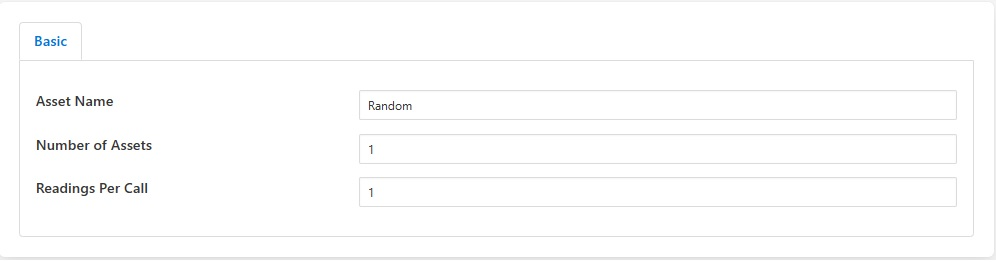
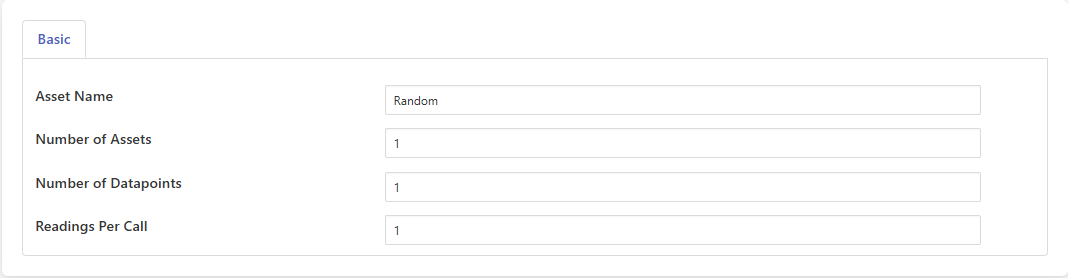
FOGL-9286: Added support for multiple datapoints in a reading (#36)
* FOGL-9286: Added support for multiple datapoints in a reading

diff --git a/plugin.cpp b/plugin.cpp
@@ -28,15 +28,6 @@ static const char *default_config = QUOTE({
 			"type" : "string",
 		       	"default" : PLUGIN_NAME,
 			"readonly" : "true" },
-		"numAssets" : {
-			"description" : "Number of unique assets to simulate",
-			"type" : "integer",
-		       	"default" : "1",
-			"minimum" : "1",
-			"order": "2",
-			"displayName": "Number of Assets",
-			"rule" : "value > 0"
-			},
 		"asset" : {
 			"description" : "Asset name prefix",
 			"type" : "string",
@@ -44,13 +35,31 @@ static const char *default_config = QUOTE({
 			"order": "1",
 			"displayName": "Asset Name"
 			},
+		"numAssets" : {
+			"description" : "Number of unique assets to simulate",
+			"type" : "integer",
+			"default" : "1",
+			"minimum" : "1",
+			"order": "2",
+			"displayName": "Number of Assets",
+			"rule" : "value > 0"
+			},
+		"numDatapoints" : {
+			"description" : "Number of unique datapoints in each asset to simulate",
+			"type" : "integer",
+			"default" : "1",
+			"minimum" : "1",
+			"order": "3",
+			"displayName": "Number of Datapoints",
+			"rule" : "value > 0"
+			},
 		"numReadingsPerPoll" : {
 			"description" : "Number of readings to be returned per poll call",
 			"type" : "integer",
 			"default" : "1",
 			"minimum" : "1",
 			"maximum" : "100000",
-			"order": "3",
+			"order": "4",
 			"displayName": "Readings Per Call"
 			}
 		});
@@ -97,10 +106,21 @@ void setPluginConfig(Random *random, ConfigCategory *config)
 		nAssets = stoul(config->getValue("numAssets"), nullptr, 0);
 		if (nAssets <= 0)
 		{
-			throw runtime_error("The value of numAssets, number of unique assets to simulate, must be greater than 0");
+			throw runtime_error("The number of unique assets to simulate must be greater than 0");
 		}
 	}
 	random->setNumAssets(nAssets);
+
+	unsigned int nDatapoints = 1;
+	if (config->itemExists("numDatapoints"))
+	{
+		nDatapoints = stoul(config->getValue("numDatapoints"), nullptr, 0);
+		if (nDatapoints <= 0)
+		{
+			throw runtime_error("The number of unique data points to simulate must be greater than 0");
+		}
+	}
+	random->setNumDatapoints(nDatapoints);
 
 	unsigned int numReadingsPerPoll = 1;
 	if (config->itemExists("numReadingsPerPoll"))

diff --git a/random.cpp b/random.cpp
@@ -37,7 +37,19 @@ std::vector<Reading*>* Random::takeReadings()
 	{
 		m_lastValue += ((rand() % 100) > 50 ? 1 : -1) * ((rand() % 100) / 20);
 		DatapointValue value(m_lastValue);
-		Reading *in = new Reading(m_assetName+std::to_string(m_assetCount++ % m_numAssets + 1), new Datapoint("random", value));
+
+		std::vector<Datapoint *> values;
+		values.emplace_back(new Datapoint("random", value));
+		// create more datapoints
+		for (int j=1; j < m_numDatapoints; j++)
+		{
+			std::string dpName = "random"+ std::to_string(j+1);
+			m_lastValue += ((rand() % 100) > 50 ? 1 : -1) * ((rand() % 100) / 20);
+			DatapointValue dpValue(m_lastValue);
+			values.emplace_back(new Datapoint(dpName, dpValue));
+		}
+
+		Reading *in = new Reading(m_assetName+std::to_string(m_assetCount++ % m_numAssets + 1), values);
 		readings->push_back(in);
 	}
 

diff --git a/include/random.h b/include/random.h
@@ -20,12 +20,14 @@ class Random {
 		unsigned long	getNumAssets() { return m_numAssets; }
 		void	setAssetName(const std::string& assetName) { m_assetName = assetName; }
 		void	setNumAssets(unsigned long numAssets) { if (numAssets > 0) { m_numAssets = numAssets; } }
+		void	setNumDatapoints(unsigned long numDatapoints) { if (numDatapoints > 0) { m_numDatapoints = numDatapoints; } }
 		void	setNumReadingsPerPoll(unsigned long numReadingsPerPoll) { if (numReadingsPerPoll > 0) { m_numReadingsPerPoll = numReadingsPerPoll; } }
 
 	private:
 		long		m_lastValue;
 		std::string	m_assetName;
 		long            m_numAssets;
+		long            m_numDatapoints;
 		long            m_numReadingsPerPoll;
 		long            m_assetCount;
 };

diff --git a/docs/index.rst b/docs/index.rst
@@ -15,4 +15,6 @@ The *fledge-south-benchmark* plugin to generate simulated data for benchmark tes
 
     - **Number of Assets**: Number of unique assets to simulate
 
+    - **Number of Datapoints**: Number of unique datapoints in each simulated asset
+
     - **Readings Per Call**: Number of readings to be returned per poll call
